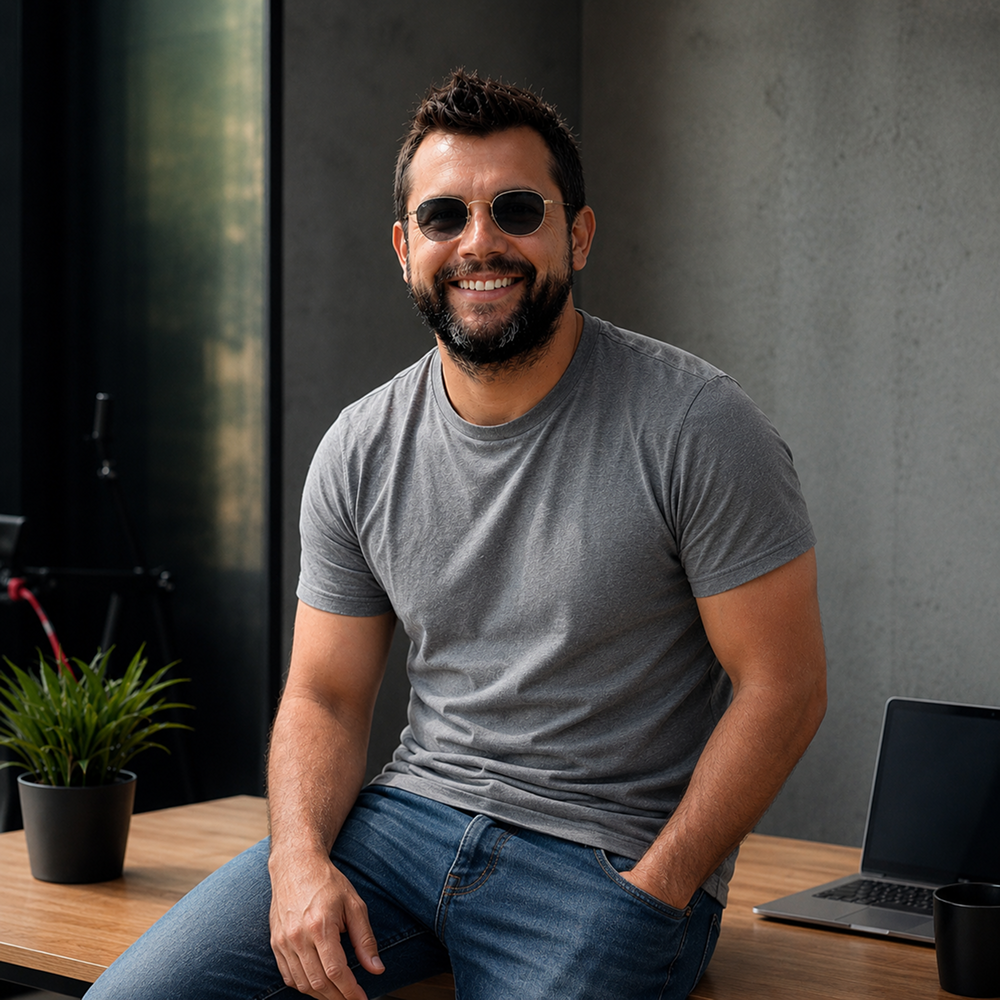
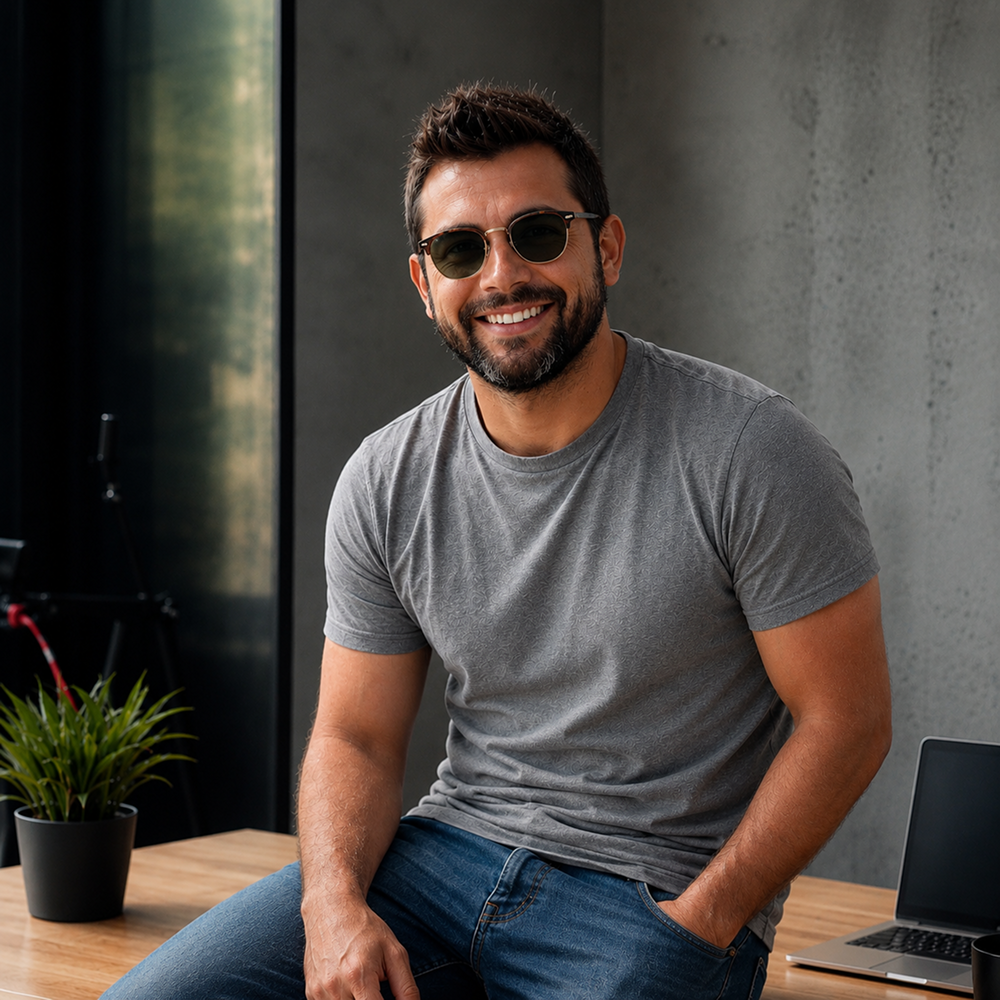
Affiliate v5.6 desktop: 5 правок. (1) Support — фото support-man.png обновлено (новая версия мужчины в очках в офисе). (2) TG-сообщество телефон — стиль главной RU TelegramChannelList: цветные кружки иконок убраны, эмодзи на прозрачном фоне 24px, шрифты крупнее (15/13), цвета текста подстроены под i

diff --git a/hashhedge-react-app-affiliate-ru.js b/hashhedge-react-app-affiliate-ru.js
@@ -320,7 +320,7 @@
     const sparkPath = sparkPts.map((y, i) => `${i === 0 ? "M" : "L"} ${i / (sparkPts.length - 1) * 100} ${y}`).join(" ");
     return _e("div", {
       style: {
-        background: "#151517",
+        background: "#1C1C1F",
         border: "1px solid var(--line)",
         borderRadius: 18, overflow: "hidden",
         backdropFilter: "blur(12px)", WebkitBackdropFilter: "blur(12px)",
@@ -528,7 +528,7 @@
     const Card = ({ children, chip, title, titleAccent, body }) => _e("div", {
       className: "hh-why-card",
       style: {
-        background: "#151517", border: "1px solid var(--line)", borderRadius: 18,
+        background: "#1C1C1F", border: "1px solid var(--line)", borderRadius: 18,
         padding: 0, overflow: "hidden", display: "flex", flexDirection: "column", height: "100%"
       }
     },
@@ -911,7 +911,7 @@
         _e("div", { className: "hh-income-grid", style: { display: "grid", gridTemplateColumns: "repeat(3, 1fr)", gap: 18 } },
           sources.map((s, i) => _e(Reveal, { key: i, delay: String(i + 1) },
             _e("div", { className: "hh-income-card",
-              style: { position: "relative", background: "#151517", border: "1px solid var(--line)", borderRadius: 18, padding: "32px 28px 28px", height: "100%", display: "flex", flexDirection: "column", overflow: "hidden" }
+              style: { position: "relative", background: "#1C1C1F", border: "1px solid var(--line)", borderRadius: 18, padding: "32px 28px 28px", height: "100%", display: "flex", flexDirection: "column", overflow: "hidden" }
             },
               // Большая декоративная цифра на фоне справа сверху
               _e("div", { "aria-hidden": true, style: {
@@ -996,7 +996,7 @@
           tiers.map((t, i) => _e(Reveal, { key: i, delay: String((i % 4) + 1) },
             _e("div", {
               style: {
-                background: t.featured ? "linear-gradient(180deg, rgba(252,213,53,0.08), rgba(252,213,53,0.01)), #151517" : "#151517",
+                background: t.featured ? "linear-gradient(180deg, rgba(252,213,53,0.08), rgba(252,213,53,0.01)), #1C1C1F" : "#1C1C1F",
                 border: t.featured ? "1px solid rgba(252,213,53,0.35)" : "1px solid var(--line)",
                 borderRadius: 18, padding: "26px 18px",
                 textAlign: "center", height: "100%",
@@ -1106,8 +1106,8 @@
                     onClick: () => setChIdx(i),
                     style: {
                       padding: "10px 14px", borderRadius: 10, fontSize: 13, fontWeight: 700, cursor: "pointer",
-                      // фон всех табов = #151517 (фон блока «Твой уровень»); активный — жёлтая рамка + жёлтый текст
-                      background: "#151517",
+                      // фон всех табов = #1C1C1F (фон блока «Твой уровень»); активный — жёлтая рамка + жёлтый текст
+                      background: "#1C1C1F",
                       color: i === chIdx ? "#fcd535" : "#f5f1e8",
                       border: i === chIdx ? "1px solid rgba(252,213,53,0.55)" : "1px solid var(--line)",
                       transition: "all .15s"
@@ -1132,7 +1132,7 @@
                 // Текст «Больше активных трейдеров…» убран по правкам
               ),
               _e("div", { className: "hh-calc-tier-card",
-                style: { padding: "18px 22px", background: "#151517", border: "1px solid var(--line)", borderRadius: 14, marginBottom: 16 }
+                style: { padding: "18px 22px", background: "#1C1C1F", border: "1px solid var(--line)", borderRadius: 14, marginBottom: 16 }
               },
                 _e("div", { style: { display: "flex", alignItems: "center", justifyContent: "space-between" } },
                   _e("div", null,
@@ -1153,7 +1153,7 @@
             // RIGHT result card — компактный, тексты прижаты ближе
             _e("div", { className: "hh-calc-result",
               style: {
-                background: "linear-gradient(180deg, rgba(11,11,14,0.6), #151517)",
+                background: "linear-gradient(180deg, rgba(11,11,14,0.6), #1C1C1F)",
                 border: "1px solid var(--line)", borderRadius: 22, padding: 24,
                 boxShadow: "0 40px 80px -20px rgba(0,0,0,0.6)",
                 display: "flex", flexDirection: "column", gap: 12
@@ -1243,7 +1243,7 @@
         _e("div", { className: "hh-steps-grid", style: { display: "grid", gap: 18 } },
           steps.map((s, i) => _e(Reveal, { key: i, delay: String(i + 1) },
             _e("div", { className: "hh-steps-card",
-              style: { background: "#151517", border: "1px solid var(--line)", borderRadius: 16, padding: 24, height: "100%" }
+              style: { background: "#1C1C1F", border: "1px solid var(--line)", borderRadius: 16, padding: 24, height: "100%" }
             },
               // На мобильной номер шага виден слева в кругу (CSS делает display: flex)
               _e("div", { className: "hh-steps-num-mobile",
@@ -1491,7 +1491,7 @@
               // Lucide "wallet" — чистая иконка кошелька с застёжкой, ассоциируется с выводом средств
               { paths: ["M21 12V7H5a2 2 0 0 1 0-4h14v4", "M3 5v14a2 2 0 0 0 2 2h16v-5", "M18 12a2 2 0 0 0 0 4h4v-4Z"], t: "Вывод в любой момент", b: "Запрашивай выплаты в USDT без фиксированных дат." },
               { paths: ["M12 20h9", "M16.5 3.5a2.121 2.121 0 0 1 3 3L7 19l-4 1 1-4L16.5 3.5z"], t: "Гибкие инструменты", b: "Генерируй ссылки, промокоды и подключай постбэки за пару секунд." }
-            ].map((ex, i) => _e("div", { key: i, style: { padding: 18, background: "#151517", border: "1px solid var(--line)", borderRadius: 14 } },
+            ].map((ex, i) => _e("div", { key: i, style: { padding: 18, background: "#1C1C1F", border: "1px solid var(--line)", borderRadius: 14 } },
               _e("svg", { width: 22, height: 22, viewBox: "0 0 24 24", style: { fill: "none", stroke: "#fcd535", strokeWidth: 1.8, strokeLinecap: "round", strokeLinejoin: "round", marginBottom: 12 } },
                 ex.paths.map((p, j) => _e("path", { key: j, d: p, style: { fill: "none", stroke: "#fcd535" } }))
               ),
@@ -1593,31 +1593,34 @@
   // PARTNER CONTENT (YouTube)
   // ============================================================================
   function PartnerContent() {
-    useEffect(() => {
-      const rail = document.getElementById("hh-yt-rail");
-      const prev = document.getElementById("hh-yt-prev");
-      const next = document.getElementById("hh-yt-next");
-      if (!rail || !prev || !next) return;
-      const step = () => rail.clientWidth * 0.75;
-      const onPrev = () => rail.scrollBy({ left: -step(), behavior: "smooth" });
-      const onNext = () => rail.scrollBy({ left: step(), behavior: "smooth" });
-      prev.addEventListener("click", onPrev);
-      next.addEventListener("click", onNext);
-      return () => { prev.removeEventListener("click", onPrev); next.removeEventListener("click", onNext); };
-    }, []);
+    // v5.6: переписан как 1 hero + 6 в 3-col grid (вместо horizontal slider). Слайдер делал секцию визуально
+    // похожей на YouTubeSection на главной RU — теперь mosaic-layout, акцентирует первый ролик.
     const videos = [
-      { id: "PUAyUaSommg", title: "От $49 до $5 580 — как изменить жизнь на крипто-проп-трейдинге" },
-      { id: "IlSjDtqwwuA", title: "Обзор челленджа Hash Hedge" },
-      { id: "PpA50UZYusw", title: "Доказательство выплат в USDT" },
-      { id: "v70Cj06fueA", title: "Как пройти 1-фазный челлендж" },
-      { id: "oz_72s2S5Xc", title: "Разбор платформы и условий" },
-      { id: "xJ4yA5MDMDU", title: "Интервью с funded-трейдером" },
-      { id: "lnsWjuJuguE", title: "Стратегия торговли на челлендже" }
+      { id: "PUAyUaSommg", title: "От $49 до $5 580 — как изменить жизнь на крипто-проп-трейдинге", author: "@yariktrade", views: "127K" },
+      { id: "IlSjDtqwwuA", title: "Обзор челленджа Hash Hedge",                                     author: "@cryptopro",   views: "94K"  },
+      { id: "PpA50UZYusw", title: "Доказательство выплат в USDT",                                   author: "@propnews",    views: "58K"  },
+      { id: "v70Cj06fueA", title: "Как пройти 1-фазный челлендж",                                   author: "@trader_oleg", views: "73K"  },
+      { id: "oz_72s2S5Xc", title: "Разбор платформы и условий",                                     author: "@cryptoschool",views: "41K"  },
+      { id: "xJ4yA5MDMDU", title: "Интервью с funded-трейдером",                                    author: "@yariktrade",  views: "112K" },
+      { id: "lnsWjuJuguE", title: "Стратегия торговли на челлендже",                                author: "@cryptopro",   views: "67K"  }
     ];
+    // PlayBtn — единая кнопка-плей с YouTube-стилем
+    const PlayBtn = ({ size }) => _e("div", { style: {
+      position: "absolute", top: "50%", left: "50%", transform: "translate(-50%,-50%)",
+      width: size, height: size, borderRadius: "50%", background: "#ff0000",
+      display: "inline-flex", alignItems: "center", justifyContent: "center",
+      boxShadow: "0 6px 24px rgba(255,0,0,0.35)"
+    } },
+      _e("svg", { width: size * 0.34, height: size * 0.38, viewBox: "0 0 20 22", style: { fill: "#fff", marginLeft: size * 0.04 } },
+        _e("path", { d: "M0 0 L0 22 L20 11 Z", style: { fill: "#fff" } })
+      )
+    );
+    const hero = videos[0];
+    const rest = videos.slice(1);
     return _e("section", { id: "content", "data-no-glow": true, style: { padding: "100px 0 120px", background: "var(--bg)" } },
       _e("div", { className: "container" },
         _e(Reveal, null,
-          _e("div", { className: "hh-yt-head", style: { display: "grid", gridTemplateColumns: "1.4fr 1fr", gap: 60, alignItems: "end", marginBottom: 32 } },
+          _e("div", { className: "hh-yt-head", style: { display: "grid", gridTemplateColumns: "1.4fr 1fr", gap: 60, alignItems: "end", marginBottom: 40 } },
             _e("div", null,
               _e("span", {
                 style: { display: "inline-flex", alignItems: "center", gap: 8, padding: "6px 14px", borderRadius: 100, border: "1px solid var(--line)", background: "rgba(255,255,255,0.02)", fontSize: 11, fontWeight: 700, letterSpacing: "0.12em", textTransform: "uppercase", color: "#a1a0a4", marginBottom: 24 }
@@ -1629,50 +1632,64 @@
                 "Что помогает партнёрам", _e("br", null), _e("span", { style: { color: "#fcd535" } }, "зарабатывать")
               )
             ),
-            _e("div", null,
-              _e("p", { style: { fontSize: 15, color: "#a1a0a4", lineHeight: 1.55, marginBottom: 14 } },
-                "Посмотри, как 2500+ партнёров создают контент и привлекают клиентов. Вдохновляйся и применяй лучшие механики у себя в контенте."
-              ),
-              // Стрелки в стиле «Независимые обзоры» главной RU: круг 36×36, прозрачный фон, тонкая обводка
-              _e("div", { style: { display: "flex", gap: 8, justifyContent: "flex-end" } },
-                _e("button", { id: "hh-yt-prev", "aria-label": "Назад",
-                  style: { width: 36, height: 36, borderRadius: "50%", background: "rgba(255,255,255,0.04)", border: "1px solid var(--line)", color: "#f5f1e8", cursor: "pointer", display: "inline-flex", alignItems: "center", justifyContent: "center", transition: "background .25s, border-color .25s" }
-                },
-                  _e("svg", { width: 14, height: 14, viewBox: "0 0 14 14", fill: "none" },
-                    _e("path", { d: "M9 3l-4 4 4 4", stroke: "currentColor", strokeWidth: 1.8, strokeLinecap: "round", strokeLinejoin: "round" })
-                  )
-                ),
-                _e("button", { id: "hh-yt-next", "aria-label": "Вперёд",
-                  style: { width: 36, height: 36, borderRadius: "50%", background: "rgba(255,255,255,0.04)", border: "1px solid var(--line)", color: "#f5f1e8", cursor: "pointer", display: "inline-flex", alignItems: "center", justifyContent: "center", transition: "background .25s, border-color .25s" }
-                },
-                  _e("svg", { width: 14, height: 14, viewBox: "0 0 14 14", fill: "none" },
-                    _e("path", { d: "M5 3l4 4-4 4", stroke: "currentColor", strokeWidth: 1.8, strokeLinecap: "round", strokeLinejoin: "round" })
-                  )
-                )
-              )
+            _e("p", { style: { fontSize: 15, color: "#a1a0a4", lineHeight: 1.55, margin: 0 } },
+              "Посмотри, как 2500+ партнёров создают контент и привлекают клиентов. Вдохновляйся и применяй лучшие механики у себя в контенте."
             )
           )
         ),
-        _e(Reveal, { delay: "1" },
-          _e("div", { id: "hh-yt-rail", className: "hh-no-scrollbar",
-            style: { display: "grid", gridAutoFlow: "column", gridAutoColumns: "minmax(280px, 1fr)", gap: 16, paddingBottom: 16, overflowX: "auto", scrollSnapType: "x mandatory", scrollBehavior: "smooth" }
-          },
-            videos.map((v, i) => _e("a", {
-              key: i, href: `https://www.youtube.com/watch?v=${v.id}`, target: "_blank", rel: "noopener noreferrer",
-              style: { background: "#151517", border: "1px solid var(--line)", borderRadius: 14, overflow: "hidden", textDecoration: "none", color: "var(--fg)", scrollSnapAlign: "start" }
+        // Mosaic: hero (большой) + 6 поменьше в 3-col grid
+        _e("div", { className: "hh-yt-mosaic", style: { display: "grid", gridTemplateColumns: "1.4fr 1fr", gap: 20, alignItems: "start" } },
+          // HERO — слева большой
+          _e(Reveal, { delay: "1" },
+            _e("a", {
+              href: `https://www.youtube.com/watch?v=${hero.id}`, target: "_blank", rel: "noopener noreferrer",
+              style: { display: "block", background: "#1C1C1F", border: "1px solid var(--line)", borderRadius: 18, overflow: "hidden", textDecoration: "none", color: "var(--fg)" }
             },
-              _e("div", { style: { position: "relative", aspectRatio: "16/9", background: `url(https://img.youtube.com/vi/${v.id}/hqdefault.jpg) center / cover, #111` } },
-                _e("div", { style: { position: "absolute", top: "50%", left: "50%", transform: "translate(-50%,-50%)", width: 48, height: 48, borderRadius: "50%", background: "#ff0000", display: "inline-flex", alignItems: "center", justifyContent: "center" } },
-                  _e("svg", { width: 16, height: 18, viewBox: "0 0 20 22", style: { fill: "#fff" } },
-                    _e("path", { d: "M0 0 L0 22 L20 11 Z", style: { fill: "#fff" } })
-                  )
-                )
+              _e("div", { style: { position: "relative", aspectRatio: "16/9", background: `url(https://img.youtube.com/vi/${hero.id}/maxresdefault.jpg) center / cover, #111` } },
+                _e(PlayBtn, { size: 72 }),
+                // топ-чип «Хит просмотров»
+                _e("div", { style: { position: "absolute", top: 14, left: 14, display: "inline-flex", alignItems: "center", gap: 6, padding: "5px 11px", borderRadius: 100, background: "rgba(8,8,10,0.78)", backdropFilter: "blur(10px)", border: "1px solid rgba(255,255,255,0.12)", fontSize: 11, fontWeight: 700, color: "#fcd535", letterSpacing: "0.08em", textTransform: "uppercase" } }, "★ Хит просмотров")
               ),
-              _e("div", { style: { padding: 16 } },
-                _e("div", { style: { fontSize: 14, fontWeight: 700, lineHeight: 1.3, color: "#f5f1e8", display: "-webkit-box", WebkitLineClamp: 2, WebkitBoxOrient: "vertical", overflow: "hidden" } }, v.title)
+              _e("div", { style: { padding: "22px 24px 24px" } },
+                _e("div", { style: { fontSize: 12, fontWeight: 700, color: "#fcd535", letterSpacing: "0.06em", marginBottom: 10 } }, hero.author + " · " + hero.views + " просмотров"),
+                _e("div", { style: { fontSize: 22, fontWeight: 800, lineHeight: 1.25, color: "#f5f1e8", letterSpacing: "-0.01em" } }, hero.title)
+              )
+            )
+          ),
+          // RIGHT — стек 3 карточек горизонтальной компоновкой (thumb-слева, текст-справа)
+          _e("div", { style: { display: "flex", flexDirection: "column", gap: 14 } },
+            rest.slice(0, 3).map((v, i) => _e(Reveal, { key: i, delay: String(i + 2) },
+              _e("a", {
+                href: `https://www.youtube.com/watch?v=${v.id}`, target: "_blank", rel: "noopener noreferrer",
+                style: { display: "grid", gridTemplateColumns: "160px 1fr", gap: 14, background: "#1C1C1F", border: "1px solid var(--line)", borderRadius: 14, overflow: "hidden", textDecoration: "none", color: "var(--fg)", alignItems: "stretch" }
+              },
+                _e("div", { style: { position: "relative", aspectRatio: "16/10", background: `url(https://img.youtube.com/vi/${v.id}/hqdefault.jpg) center / cover, #111` } },
+                  _e(PlayBtn, { size: 36 })
+                ),
+                _e("div", { style: { padding: "12px 14px 12px 0", display: "flex", flexDirection: "column", justifyContent: "center" } },
+                  _e("div", { style: { fontSize: 10, fontWeight: 700, color: "#fcd535", letterSpacing: "0.06em", marginBottom: 6 } }, v.author + " · " + v.views),
+                  _e("div", { style: { fontSize: 13, fontWeight: 700, lineHeight: 1.3, color: "#f5f1e8", display: "-webkit-box", WebkitLineClamp: 2, WebkitBoxOrient: "vertical", overflow: "hidden" } }, v.title)
+                )
               )
             ))
           )
+        ),
+        // BOTTOM — оставшиеся 3 ролика в 3-col grid
+        _e("div", { className: "hh-yt-bottom", style: { display: "grid", gridTemplateColumns: "repeat(3, 1fr)", gap: 16, marginTop: 20 } },
+          rest.slice(3).map((v, i) => _e(Reveal, { key: i, delay: String(i + 1) },
+            _e("a", {
+              href: `https://www.youtube.com/watch?v=${v.id}`, target: "_blank", rel: "noopener noreferrer",
+              style: { display: "block", background: "#1C1C1F", border: "1px solid var(--line)", borderRadius: 14, overflow: "hidden", textDecoration: "none", color: "var(--fg)" }
+            },
+              _e("div", { style: { position: "relative", aspectRatio: "16/9", background: `url(https://img.youtube.com/vi/${v.id}/hqdefault.jpg) center / cover, #111` } },
+                _e(PlayBtn, { size: 44 })
+              ),
+              _e("div", { style: { padding: "14px 16px 16px" } },
+                _e("div", { style: { fontSize: 11, fontWeight: 700, color: "#fcd535", letterSpacing: "0.06em", marginBottom: 6 } }, v.author + " · " + v.views),
+                _e("div", { style: { fontSize: 14, fontWeight: 700, lineHeight: 1.3, color: "#f5f1e8", display: "-webkit-box", WebkitLineClamp: 2, WebkitBoxOrient: "vertical", overflow: "hidden" } }, v.title)
+              )
+            )
+          ))
         )
       )
     );
@@ -1682,16 +1699,17 @@
   // EVENTS
   // ============================================================================
   function Events() {
-    // 4 равные карточки в ряд (как на твоём скрине-эталоне)
+    // 1 hero + 4 в 4-колоночной сетке (всего 5 мероприятий). Второе по счёту — Blockchain Forum.
     const events = [
       { flag: "🇦🇪", city: "Дубай",     year: "Октябрь 2025", role: "Организатор", title: "WSCT Дубай · Оффлайн турнир",   img: "https://hash-hedge-partner.vercel.app/assets/event-dubai.jpg" },
+      { flag: "🇷🇺", city: "Москва",    year: "2025",          role: null,           title: "Партнёры на Blockchain Forum",   img: ((typeof window !== "undefined" && window.__HH_BASE__) || "") + "assets/event-blockchain-forum.jpg" },
       { flag: "🇷🇺", city: "Москва",    year: "2026",          role: null,           title: "Партнёрская встреча",            img: "https://hash-hedge-partner.vercel.app/assets/event-moscow.jpg" },
       { flag: "🇧🇷", city: "Сан-Паулу", year: "2025",          role: "Организатор", title: "WSCT Бразилия · Оффлайн турнир", img: "https://hash-hedge-partner.vercel.app/assets/event-saopaulo.jpeg" },
       { flag: "🇷🇺", city: "Москва",    year: "2026",          role: "Организатор", title: "Награждение Топ-партнёров",      img: "https://hash-hedge-partner.vercel.app/assets/event-award.jpg" }
     ];
     const Card = ({ ev, big }) => _e("div", {
       className: "hh-event-card" + (big ? " hh-event-card-big" : ""),
-      style: { position: "relative", aspectRatio: big ? "2.4 / 1" : "1 / 1.05", borderRadius: 18, overflow: "hidden", border: "1px solid var(--line)", background: "#151517" }
+      style: { position: "relative", aspectRatio: big ? "2.4 / 1" : "1 / 1.05", borderRadius: 18, overflow: "hidden", border: "1px solid var(--line)", background: "#1C1C1F" }
     },
       _e("div", { style: { position: "absolute", inset: 0, backgroundImage: `url(${ev.img})`, backgroundSize: "cover", backgroundPosition: "center" } }),
       _e("div", { style: { position: "absolute", inset: 0, background: "linear-gradient(180deg, rgba(0,0,0,0.3) 0%, rgba(0,0,0,0) 30%, rgba(0,0,0,0) 45%, rgba(0,0,0,0.88) 100%)", pointerEvents: "none" } }),
@@ -1736,7 +1754,7 @@
         _e(Reveal, { delay: "1" },
           _e("div", { style: { marginBottom: 18 } }, _e(Card, { ev: events[0], big: true }))
         ),
-        _e("div", { className: "hh-events-grid", style: { display: "grid", gridTemplateColumns: "repeat(3, 1fr)", gap: 18 } },
+        _e("div", { className: "hh-events-grid", style: { display: "grid", gridTemplateColumns: "repeat(4, 1fr)", gap: 16 } },
           events.slice(1).map((ev, i) => _e(Reveal, { key: i, delay: String(i + 2) }, _e(Card, { ev, big: false })))
         )
       )
@@ -1747,13 +1765,14 @@
   // TELEGRAM COMMUNITY (закрытый чат для партнёров)
   // ============================================================================
   function TelegramCommunity() {
-    // Базовые каналы партнёрской программы Hash Hedge Partner | CIS
+    // Базовые каналы партнёрской программы Hash Hedge Partner | CIS — контент сохранён.
+    // Визуально приведено к стилю TelegramChannelList на главной RU: эмодзи на прозрачном фоне (без цветного кружка).
     const channelsBase = [
-      { ic: "#",  iconBg: "#3a4554", name: "Новости 📩",      sub: "Новый личный кабинет партнёра…",      time: "ВТ"     },
-      { ic: "🎬", iconBg: "#3a4554", name: "Контент",         sub: "Queen Prop: Готово, и вы пожалуйста 😊", time: "ВС", unread: 29 },
-      { ic: "📣", iconBg: "#3a4554", name: "Чат партнёров",   sub: "Друзья, всем привет! Напоминаем…",     time: "ПТ", unread: 13 },
-      { ic: "⚡", iconBg: "#c5984a", name: "Акции",           sub: "Flash Sale на Hash Hedge: 28–29 мая",   time: "ЧТ", unread: 6 },
-      { ic: "📝", iconBg: "#3a4554", name: "Промо материалы", sub: "обновили баннеры для сторис",          time: "сейчас", unread: 1 }
+      { ic: "#",  name: "Новости 📩",      sub: "Новый личный кабинет партнёра…",      time: "ВТ",     pinned: true },
+      { ic: "🎬", name: "Контент",         sub: "Queen Prop: Готово, и вы пожалуйста 😊", time: "ВС",     unread: 29 },
+      { ic: "📣", name: "Чат партнёров",   sub: "Друзья, всем привет! Напоминаем…",     time: "ПТ",     unread: 13 },
+      { ic: "⚡", name: "Акции",           sub: "Flash Sale на Hash Hedge: 28–29 мая",   time: "ЧТ",     unread: 6  },
+      { ic: "📝", name: "Промо материалы", sub: "обновили баннеры для сторис",          time: "сейчас", unread: 1  }
     ];
     // Сценарий «живого» движения в чате партнёров (имитация переписки): меняется sub/time/unread
     // у одного из каналов, активный канал (выделение строки) переключается.
@@ -1909,8 +1928,8 @@
                   _e("div", { style: { display: "flex", flexDirection: "column", borderTop: "0.5px solid rgba(255,255,255,0.06)" } },
                     channels.map((ch, i) => _e("div", { key: i,
                       style: {
-                        display: "grid", gridTemplateColumns: "52px 1fr auto", gap: 10, alignItems: "center",
-                        padding: "10px 14px",
+                        display: "grid", gridTemplateColumns: "44px 1fr auto", gap: 12, alignItems: "center",
+                        padding: "10px 16px",
                         background: ch.active ? "rgba(43,156,222,0.16)" : "transparent",
                         borderBottom: "0.5px solid rgba(255,255,255,0.04)",
                         transition: "background .35s",
@@ -1918,29 +1937,30 @@
                         opacity: tgInView ? undefined : 0
                       }
                     },
-                      _e("div", { style: { width: 44, height: 44, borderRadius: "50%", background: ch.iconBg, display: "inline-flex", alignItems: "center", justifyContent: "center", fontSize: 18, color: "#fff" } }, ch.ic),
+                      // Эмодзи на прозрачном фоне — как на главной RU (без цветных кружков)
+                      _e("div", { style: { width: 44, height: 44, display: "inline-flex", alignItems: "center", justifyContent: "center", fontSize: 24, lineHeight: 1 } }, ch.ic),
                       _e("div", { style: { minWidth: 0 } },
-                        _e("div", { style: { fontSize: 14, fontWeight: 700, color: "#fff", marginBottom: 3, whiteSpace: "nowrap", overflow: "hidden", textOverflow: "ellipsis" } }, ch.name),
-                        _e("div", { style: { fontSize: 12, color: ch.subColor || "#7d8590", whiteSpace: "nowrap", overflow: "hidden", textOverflow: "ellipsis", fontStyle: ch.subColor ? "italic" : "normal" } }, ch.sub)
+                        _e("div", { style: { fontSize: 15, fontWeight: 700, color: "#fff", marginBottom: 3, letterSpacing: "-0.01em", whiteSpace: "nowrap", overflow: "hidden", textOverflow: "ellipsis" } }, ch.name),
+                        _e("div", { style: { fontSize: 13, color: ch.subColor || "#8E8E93", whiteSpace: "nowrap", overflow: "hidden", textOverflow: "ellipsis", fontStyle: ch.subColor ? "italic" : "normal" } }, ch.sub)
                       ),
-                      _e("div", { style: { textAlign: "right", display: "flex", flexDirection: "column", alignItems: "flex-end", gap: 4 } },
-                        _e("div", { style: { display: "inline-flex", alignItems: "center", gap: 4, fontSize: 11, color: ch.active ? "#5BB5E8" : "#7d8590" } },
-                          ch.pinned && _e("svg", { width: 10, height: 10, viewBox: "0 0 24 24", style: { fill: "#7d8590" } }, _e("path", { d: "M12 2L8 6h3v6l-5 4v2h12v-2l-5-4V6h3L12 2z", style: { fill: "#7d8590" } })),
+                      _e("div", { style: { textAlign: "right", display: "flex", flexDirection: "column", alignItems: "flex-end", gap: 5 } },
+                        _e("div", { style: { display: "inline-flex", alignItems: "center", gap: 4, fontSize: 12, color: ch.active ? "#5BB5E8" : "#8E8E93" } },
+                          ch.pinned && _e("svg", { width: 11, height: 11, viewBox: "0 0 24 24", style: { fill: "#636366" } }, _e("path", { d: "M12 2L8 6h3v6l-5 4v2h12v-2l-5-4V6h3L12 2z", style: { fill: "#636366" } })),
                           ch.time
                         ),
                         ch.unread ? _e("span", {
                           style: {
                             display: "inline-block", minWidth: 22, padding: "2px 7px",
                             background: "#5BB5E8", color: "#fff", borderRadius: 100,
-                            fontSize: 11, fontWeight: 700, textAlign: "center",
+                            fontSize: 12, fontWeight: 700, textAlign: "center",
                             animation: ch.active ? "hh-tg-badge-pulse 1.6s ease-in-out infinite" : "none"
                           }
                         }, ch.unread) : null,
-                        !ch.unread && ch.pinned && _e("span", { style: { color: "#3a4554", fontSize: 14 } }, "☆")
+                        !ch.unread && ch.pinned && _e("span", { style: { color: "#636366", fontSize: 14 } }, "★")
                       )
                     )),
                     // Пустое пространство снизу — имитация конца списка чатов
-                    _e("div", { style: { minHeight: 180 } })
+                    _e("div", { style: { minHeight: 220 } })
                   )
                 )
               )
@@ -2007,7 +2027,7 @@
             _e("div", { style: {
               position: "relative", height: "100%", minHeight: 540, borderRadius: 24, overflow: "hidden",
               border: "1px solid var(--line)",
-              background: "var(--card, #151517)"
+              background: "var(--card, #1C1C1F)"
             } },
               _e("img", { src: ((typeof window !== "undefined" && window.__HH_BASE__) || "") + "assets/support-man.png", alt: "Team Lead партнёрской программы",
                 style: { position: "absolute", inset: 0, width: "100%", height: "100%", objectFit: "cover", objectPosition: "center 25%" }
@@ -2044,7 +2064,7 @@
           // Chat mockup — структура v2.7, цвета и border-radius под главную
           _e(Reveal, { delay: "2" },
             _e("div", { ref: chatRef, style: {
-              background: "linear-gradient(180deg, rgba(255,255,255,0.02) 0%, rgba(255,255,255,0) 100%), #151517",
+              background: "linear-gradient(180deg, rgba(255,255,255,0.02) 0%, rgba(255,255,255,0) 100%), #1C1C1F",
               border: "1px solid var(--line)", borderRadius: 24, padding: 22,
               display: "flex", flexDirection: "column", minHeight: 540
             } },
@@ -2120,7 +2140,7 @@
             ),
             // Персональный менеджер — НЕ кликабельный (div вместо a), без href, без hover
             _e("div", {
-              style: { display: "flex", alignItems: "center", gap: 14, padding: "16px 18px", background: "#151517", border: "1px solid var(--line)", borderRadius: 14, cursor: "default" }
+              style: { display: "flex", alignItems: "center", gap: 14, padding: "16px 18px", background: "#1C1C1F", border: "1px solid var(--line)", borderRadius: 14, cursor: "default" }
             },
               _e("div", { style: { width: 44, height: 44, borderRadius: 10, flexShrink: 0, background: "rgba(124, 216, 160, 0.15)", color: "#7cd8a0", display: "flex", alignItems: "center", justifyContent: "center" } },
                 _e("svg", { width: 22, height: 22, viewBox: "0 0 24 24", fill: "none" },
@@ -2171,7 +2191,7 @@
           _e("div", { style: { maxWidth: 820, margin: "0 auto", display: "flex", flexDirection: "column", gap: 10 } },
             items.map((it, i) => _e("div", {
               key: i,
-              style: { background: "#151517", border: "1px solid var(--line)", borderRadius: 12, overflow: "hidden" }
+              style: { background: "#1C1C1F", border: "1px solid var(--line)", borderRadius: 12, overflow: "hidden" }
             },
               _e("button", { onClick: () => setOpen(open === i ? -1 : i),
                 style: { width: "100%", display: "flex", alignItems: "center", justifyContent: "space-between", gap: 24, padding: "20px 24px", background: "transparent", border: "none", cursor: "pointer", color: "#f5f1e8", fontSize: 16, fontWeight: 700, textAlign: "left" }
@@ -2187,7 +2207,7 @@
           _e("div", { className: "hh-faq-cta",
             style: {
               maxWidth: 820, margin: "48px auto 0", padding: "28px 32px",
-              background: "#151517", border: "1px solid rgba(43,156,222,0.4)", borderRadius: 16,
+              background: "#1C1C1F", border: "1px solid rgba(43,156,222,0.4)", borderRadius: 16,
               display: "flex", alignItems: "center", justifyContent: "space-between", gap: 28, flexWrap: "wrap"
             }
           },
@@ -2587,7 +2607,7 @@
           padding: 16px 16px 20px !important;
           position: relative !important;
           z-index: 2 !important;
-          background: #151517 !important;
+          background: #1C1C1F !important;
         }
         .hh-why-card-body h3 { font-size: 18px !important; line-height: 1.2 !important; margin-bottom: 8px !important; }
         .hh-why-card-body p { font-size: 13px !important; line-height: 1.45 !important; }
